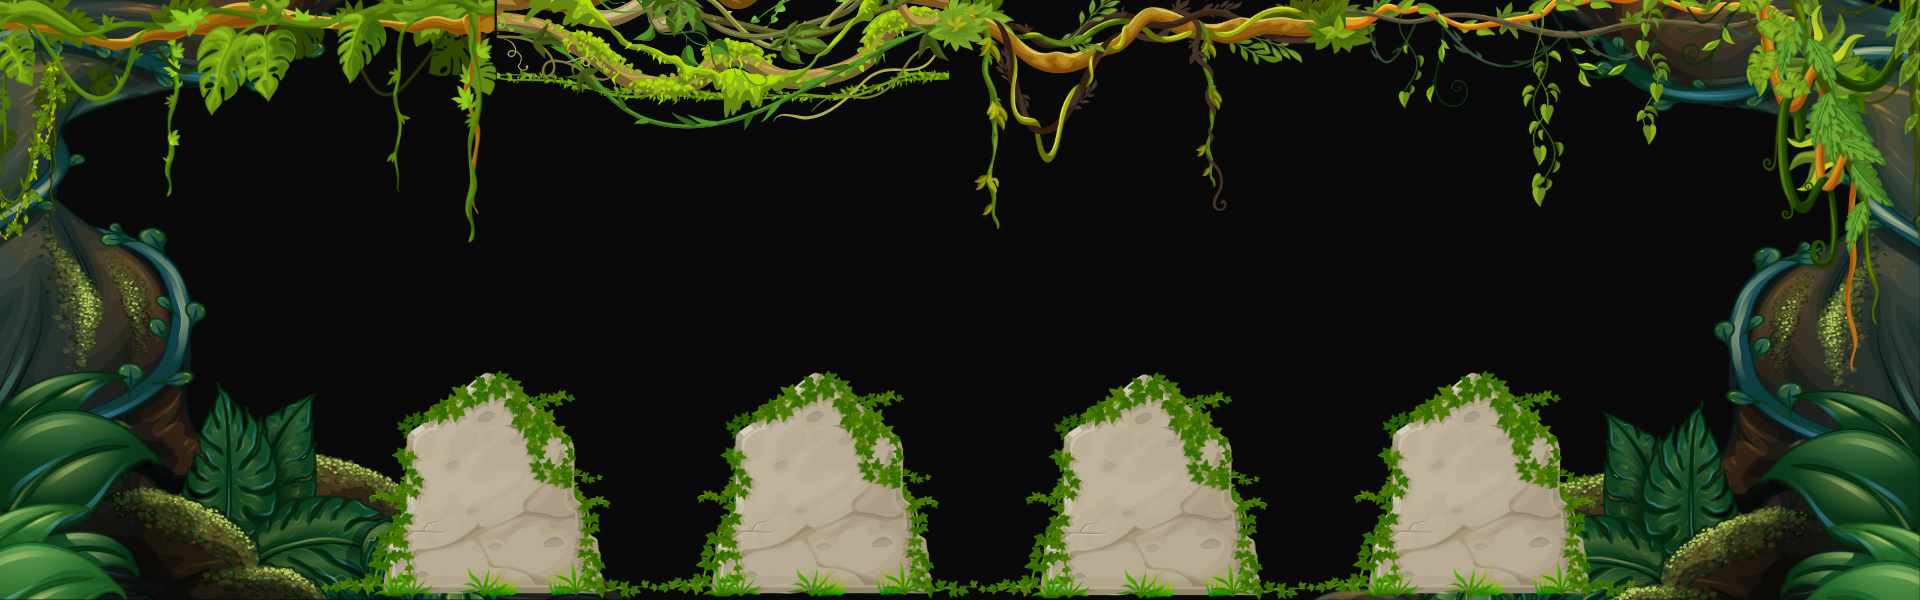
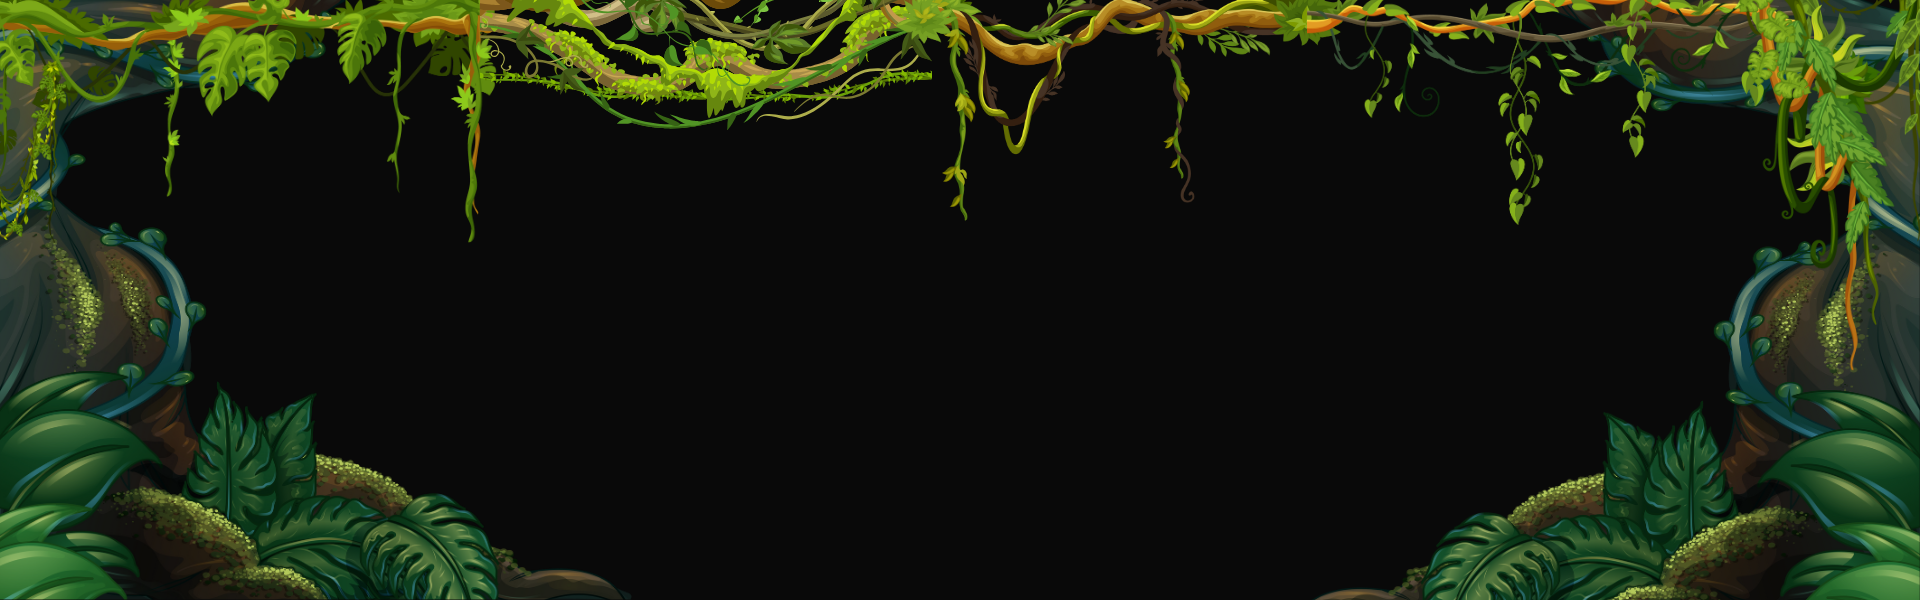
Centrar contador y botón de entradas debajo

diff --git a/components/Countdown.tsx b/components/Countdown.tsx
@@ -32,160 +32,60 @@ const Countdown: React.FC = () => {
   }, [targetDate]);
 
   return (
-    <div 
-      className="relative w-full"
+    <div
+      className="relative w-full flex flex-col items-center justify-center countdown-mobile"
       style={{
         backgroundImage: 'url(/img/CuentaAtras.png)',
         backgroundSize: 'cover',
         backgroundPosition: 'center',
         backgroundRepeat: 'no-repeat',
         height: '600px',
-        maxHeight: '600px',
+        maxHeight: '600px'
       }}
     >
-      <style>{`
-        @media (max-width: 768px) {
-          .countdown-mobile {
-            height: 82vw !important;
-            min-height: 420px !important;
-            max-height: 100vw !important;
-          }
-          .countdown-stone {
-            width: 32vw !important;
-            height: 18vw !important;
-            left: unset !important;
-            top: unset !important;
-            position: absolute !important;
-          }
-          .countdown-stone.days { left: 8vw !important; top: 54vw !important; }
-          .countdown-stone.hours { left: 28vw !important; top: 54vw !important; }
-          .countdown-stone.minutes { left: 48vw !important; top: 54vw !important; }
-          .countdown-stone.seconds { left: 68vw !important; top: 54vw !important; }
-          .countdown-center { top: 10vw !important; }
-          .countdown-btn { font-size: 1.1rem !important; padding: 0.9rem 2.2rem !important; }
-          .countdown-title { font-size: 1.3rem !important; }
-        }
-      `}</style>
-      <style>{`
-        @media (max-width: 768px) {
-          .countdown-stone {
-            width: 38vw !important;
-            height: 22vw !important;
-            left: unset !important;
-            top: unset !important;
-            position: absolute !important;
-          }
-          .countdown-stone.days { left: 5vw !important; top: 56vw !important; }
-          .countdown-stone.hours { left: 28vw !important; top: 56vw !important; }
-          .countdown-stone.minutes { left: 51vw !important; top: 56vw !important; }
-          .countdown-stone.seconds { left: 74vw !important; top: 56vw !important; }
-          .countdown-center { top: 12vw !important; }
-          .countdown-btn { font-size: 1.1rem !important; padding: 0.9rem 2.2rem !important; }
-          .countdown-title { font-size: 1.3rem !important; }
-        }
-      `}</style>
-      
-      {/* Primera piedra - Días (X: 320.6px, Y: 370.5px) */}
-      <div 
-        className="absolute flex flex-col items-center justify-center countdown-stone days"
-        style={{
-          left: '16.7%',
-          top: '61.75%',
-          width: '17.1%',
-          height: '38%'
+      <h2 
+        className="uppercase text-white text-glow-red mt-10 mb-8 text-center"
+        style={{ 
+          fontFamily: 'ClashDisplay, system-ui, -apple-system, sans-serif',
+          fontWeight: 'bold',
+          fontSize: 'clamp(1.75rem, 4vw, 3.5rem)',
+          lineHeight: 1.02
         }}
       >
-        <div className="text-4xl md:text-6xl lg:text-7xl font-black text-white mb-1" style={{ fontFamily: 'ClashDisplay, system-ui, -apple-system, sans-serif', textShadow: '0 4px 8px rgba(0,0,0,0.9)' }}>
-          {timeLeft.days}
+        CUENTA ATRÁS AQS 2026
+      </h2>
+      <div className="flex flex-row items-center justify-center gap-8 mb-8">
+        <div className="flex flex-col items-center">
+          <span className="text-5xl md:text-7xl font-black text-white mb-1" style={{ fontFamily: 'ClashDisplay, system-ui, -apple-system, sans-serif', textShadow: '0 4px 8px rgba(0,0,0,0.9)' }}>{timeLeft.days}</span>
+          <span className="text-base md:text-lg uppercase tracking-wide text-white font-bold" style={{ fontFamily: 'ClashDisplay, system-ui, -apple-system, sans-serif', textShadow: '0 2px 4px rgba(0,0,0,0.9)' }}>Días</span>
         </div>
-        <div className="text-sm md:text-lg lg:text-xl uppercase tracking-wide text-white font-bold" style={{ fontFamily: 'ClashDisplay, system-ui, -apple-system, sans-serif', textShadow: '0 2px 4px rgba(0,0,0,0.9)' }}>
-          Días
+        <div className="flex flex-col items-center">
+          <span className="text-5xl md:text-7xl font-black text-white mb-1" style={{ fontFamily: 'ClashDisplay, system-ui, -apple-system, sans-serif', textShadow: '0 4px 8px rgba(0,0,0,0.9)' }}>{timeLeft.hours}</span>
+          <span className="text-base md:text-lg uppercase tracking-wide text-white font-bold" style={{ fontFamily: 'ClashDisplay, system-ui, -apple-system, sans-serif', textShadow: '0 2px 4px rgba(0,0,0,0.9)' }}>Horas</span>
         </div>
-      </div>
-
-      {/* Segunda piedra - Horas (estimada: X: ~640px, Y: 370.5px) */}
-      <div 
-        className="absolute flex flex-col items-center justify-center countdown-stone hours"
-        style={{
-          left: '34%',
-          top: '61.75%',
-          width: '17.1%',
-          height: '38%'
-        }}
-      >
-        <div className="text-4xl md:text-6xl lg:text-7xl font-black text-white mb-1" style={{ fontFamily: 'ClashDisplay, system-ui, -apple-system, sans-serif', textShadow: '0 4px 8px rgba(0,0,0,0.9)' }}>
-          {timeLeft.hours}
+        <div className="flex flex-col items-center">
+          <span className="text-5xl md:text-7xl font-black text-white mb-1" style={{ fontFamily: 'ClashDisplay, system-ui, -apple-system, sans-serif', textShadow: '0 4px 8px rgba(0,0,0,0.9)' }}>{timeLeft.minutes}</span>
+          <span className="text-base md:text-lg uppercase tracking-wide text-white font-bold" style={{ fontFamily: 'ClashDisplay, system-ui, -apple-system, sans-serif', textShadow: '0 2px 4px rgba(0,0,0,0.9)' }}>Minutos</span>
         </div>
-        <div className="text-sm md:text-lg lg:text-xl uppercase tracking-wide text-white font-bold" style={{ fontFamily: 'ClashDisplay, system-ui, -apple-system, sans-serif', textShadow: '0 2px 4px rgba(0,0,0,0.9)' }}>
-          Horas
+        <div className="flex flex-col items-center">
+          <span className="text-5xl md:text-7xl font-black text-white mb-1" style={{ fontFamily: 'ClashDisplay, system-ui, -apple-system, sans-serif', textShadow: '0 4px 8px rgba(0,0,0,0.9)' }}>{timeLeft.seconds}</span>
+          <span className="text-base md:text-lg uppercase tracking-wide text-white font-bold" style={{ fontFamily: 'ClashDisplay, system-ui, -apple-system, sans-serif', textShadow: '0 2px 4px rgba(0,0,0,0.9)' }}>Segundos</span>
         </div>
       </div>
-
-      {/* Tercera piedra - Minutos (estimada: X: ~960px, Y: 370.5px) */}
-      <div 
-        className="absolute flex flex-col items-center justify-center countdown-stone minutes"
-        style={{
-          left: '51.5%',
-          top: '61.75%',
-          width: '17.1%',
-          height: '38%'
-        }}
-      >
-        <div className="text-4xl md:text-6xl lg:text-7xl font-black text-white mb-1" style={{ fontFamily: 'ClashDisplay, system-ui, -apple-system, sans-serif', textShadow: '0 4px 8px rgba(0,0,0,0.9)' }}>
-          {timeLeft.minutes}
-        </div>
-        <div className="text-sm md:text-lg lg:text-xl uppercase tracking-wide text-white font-bold" style={{ fontFamily: 'ClashDisplay, system-ui, -apple-system, sans-serif', textShadow: '0 2px 4px rgba(0,0,0,0.9)' }}>
-          Minutos
-        </div>
-      </div>
-
-      {/* Cuarta piedra - Segundos (estimada: X: ~1280px, Y: 370.5px) */}
-      <div 
-        className="absolute flex flex-col items-center justify-center countdown-stone seconds"
-        style={{
-          left: '68.6%',
-          top: '61.75%',
-          width: '17.1%',
-          height: '38%'
-        }}
-      >
-        <div className="text-4xl md:text-6xl lg:text-7xl font-black text-white mb-1" style={{ fontFamily: 'ClashDisplay, system-ui, -apple-system, sans-serif', textShadow: '0 4px 8px rgba(0,0,0,0.9)' }}>
-          {timeLeft.seconds}
-        </div>
-        <div className="text-sm md:text-lg lg:text-xl uppercase tracking-wide text-white font-bold" style={{ fontFamily: 'ClashDisplay, system-ui, -apple-system, sans-serif', textShadow: '0 2px 4px rgba(0,0,0,0.9)' }}>
-          Segundos
-        </div>
-      </div>
-
-      {/* Comprar Entradas Button */}
-      <div className="absolute left-1/2 transform -translate-x-1/2 flex flex-col items-center gap-4 countdown-center" style={{ top: '25%' }}>
-        <div 
-          className="relative w-full countdown-bg countdown-mobile"
+      <Link to="/tickets">
+        <button 
+          className="bg-black hover:scale-105 text-white font-black uppercase px-10 md:px-16 py-3.5 md:py-5 rounded-xl md:rounded-2xl transition-all duration-300 border border-red-500"
           style={{
-            backgroundImage: 'url(/img/CuentaAtras.png)',
-            backgroundSize: 'cover',
-            backgroundPosition: 'center',
-            backgroundRepeat: 'no-repeat',
-            height: '600px',
-            maxHeight: '600px',
+            fontFamily: 'ClashDisplay, system-ui, -apple-system, sans-serif',
+            fontSize: 'clamp(1.1rem, 3vw, 2rem)',
+            letterSpacing: '0.1em',
+            boxShadow: '0 0 18px 4px rgba(255,0,0,0.45), 0 0 48px 8px rgba(255,0,0,0.32), 0 8px 16px rgba(0,0,0,0.6)',
+            borderColor: 'rgba(255,0,0,0.55)'
           }}
         >
-        <Link to="/tickets">
-          <button 
-            className="bg-black hover:scale-105 text-white font-black uppercase px-10 md:px-16 py-3.5 md:py-5 rounded-xl md:rounded-2xl transition-all duration-300 mt-8 border border-red-500 countdown-btn"
-            style={{
-              fontFamily: 'ClashDisplay, system-ui, -apple-system, sans-serif',
-              fontSize: 'clamp(1.1rem, 3vw, 2rem)',
-              letterSpacing: '0.1em',
-              boxShadow: '0 0 18px 4px rgba(255,0,0,0.45), 0 0 48px 8px rgba(255,0,0,0.32), 0 8px 16px rgba(0,0,0,0.6)',
-              borderColor: 'rgba(255,0,0,0.55)'
-            }}
-          >
-            Entradas
-          </button>
-        </Link>
-      </div>
-      </div>
+          Entradas
+        </button>
+      </Link>
     </div>
   );
 };
